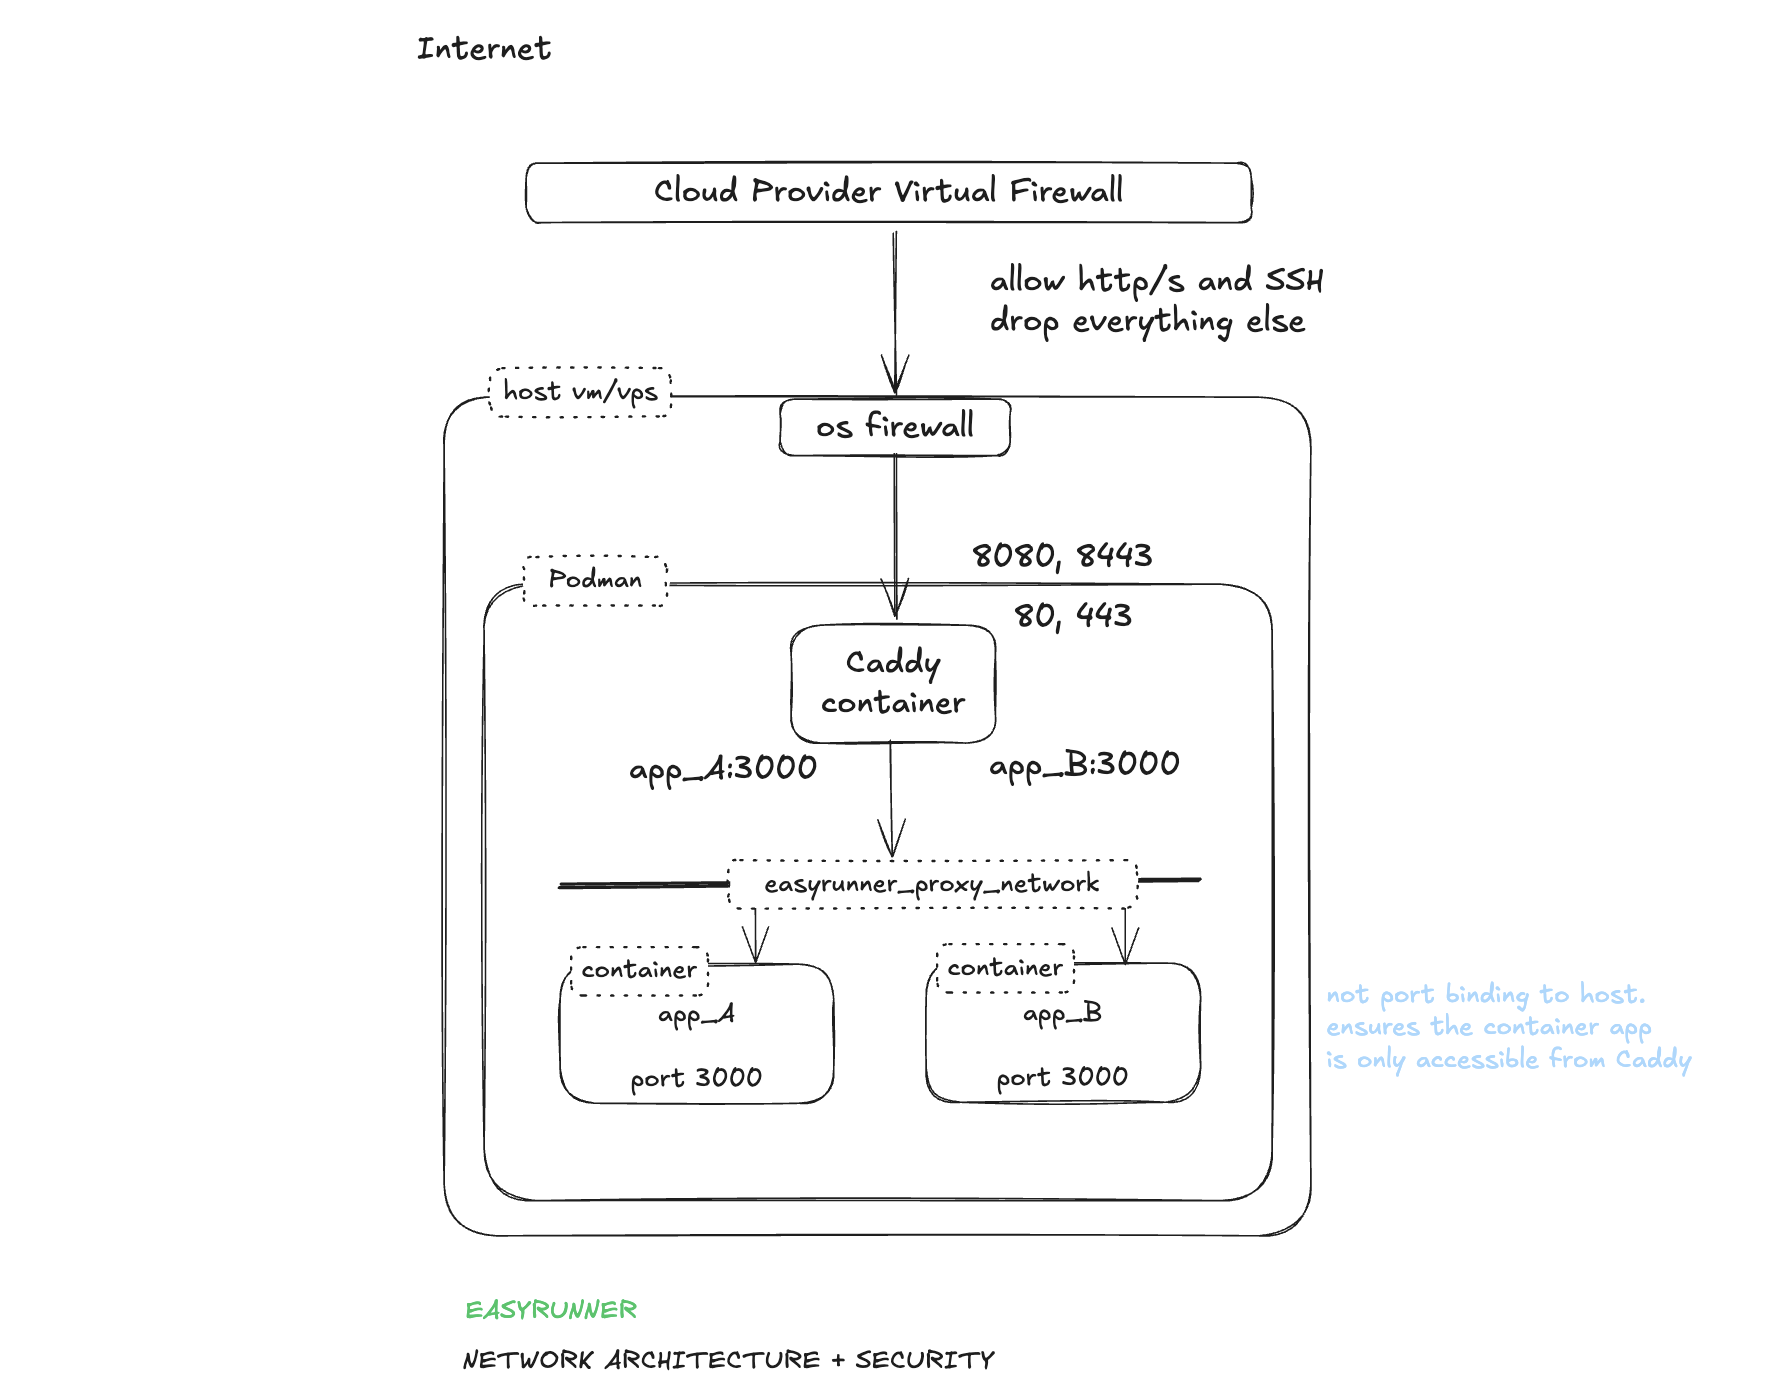
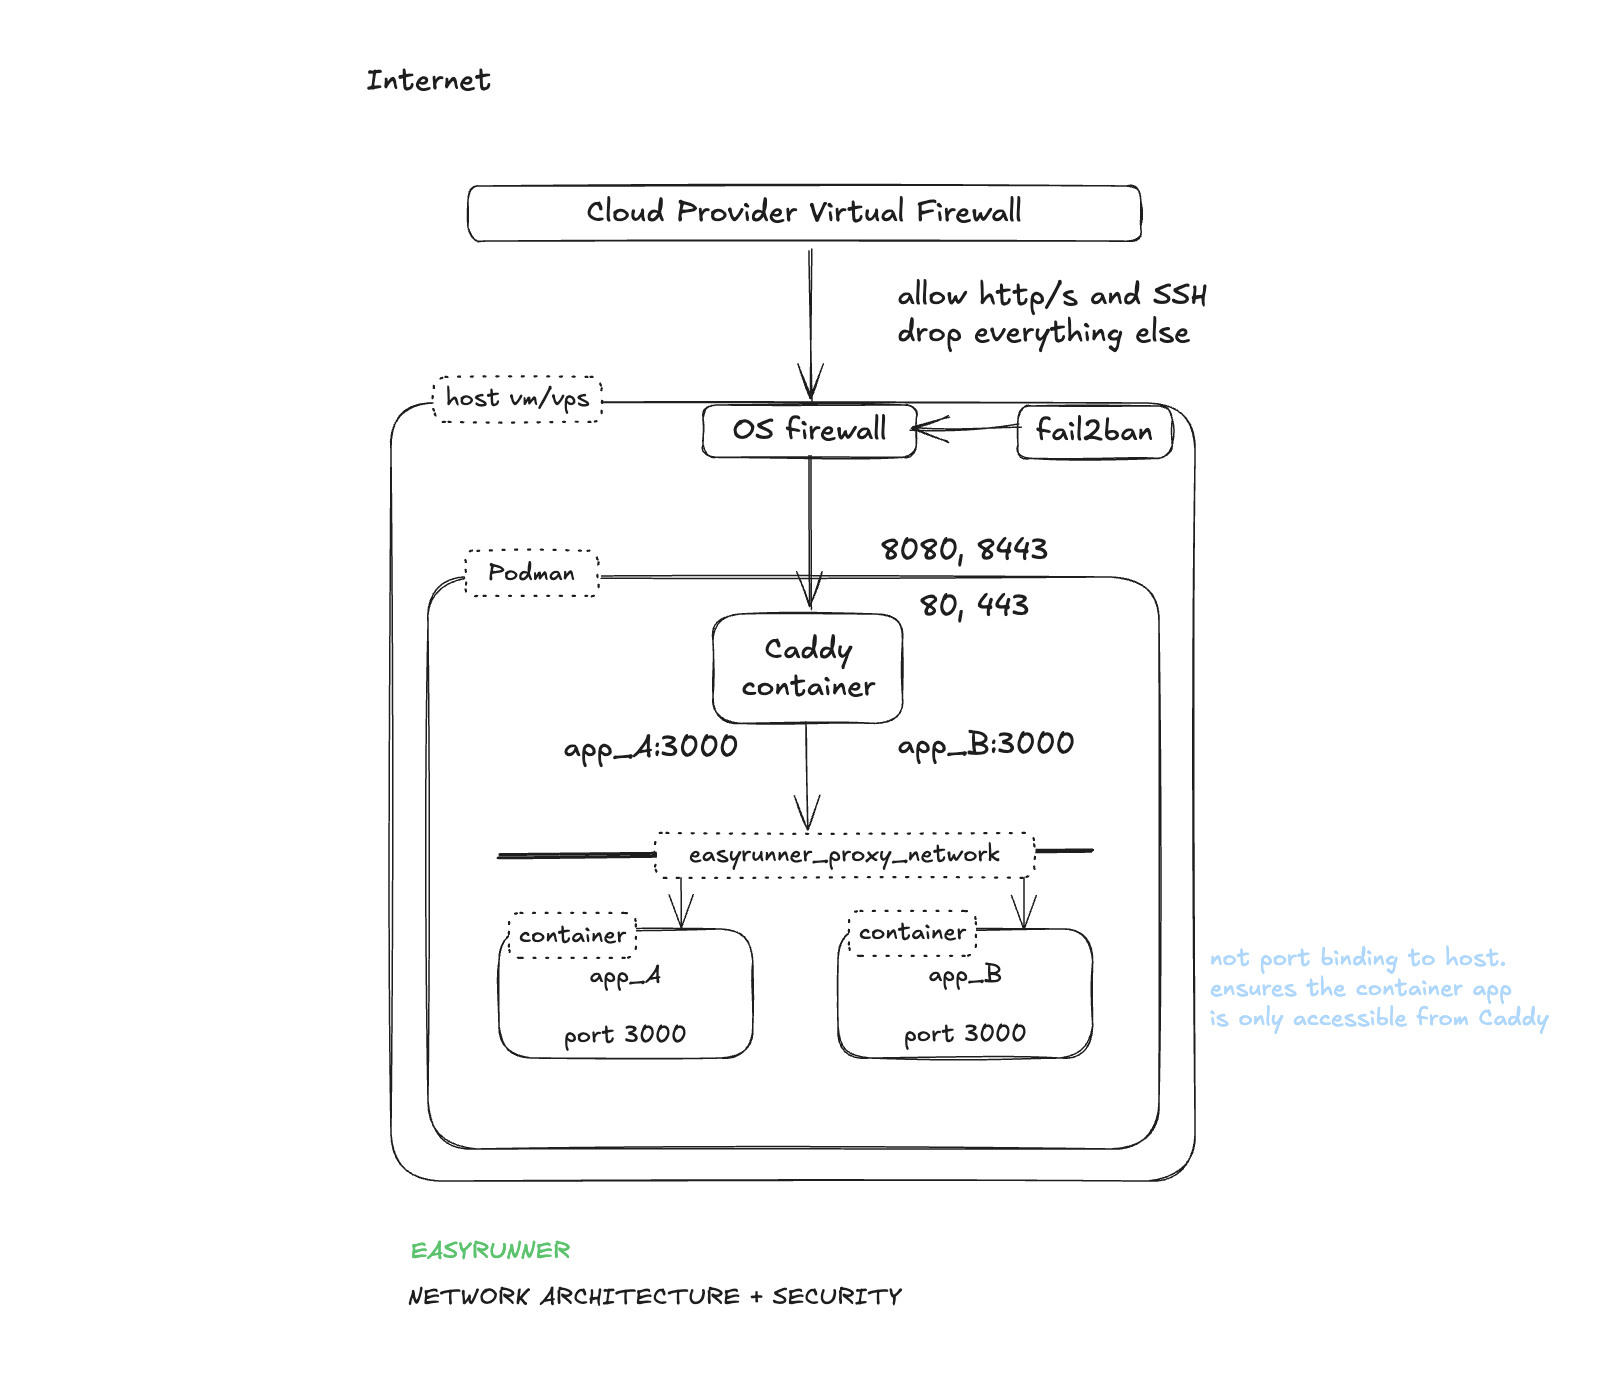
docs(blog): update security architecture blog with Intrusion Prevention section to

diff --git a/docs/blog/posts/easyrunner-secure-network-architecture.md b/docs/blog/posts/easyrunner-secure-network-architecture.md
@@ -38,6 +38,19 @@ The goal with the network setup is to reduce the surface area to a minimum. We e
 - TLS certificated are automatically setup for every application with certs issued by [Let's Encrypt](https://letsencrypt.org/).
 - Minimise information leaking that can be used by bad actors to identify vulnerable system. For example: remove X-Powered header.
 
+## Intrusion Prevention
+
+_Introduced in v0.14.b1 - Nov 2025_
+
+![EasyRunner Fail2Ban integration](er-fail2ban-status-command-output.png)
+
+- Implemented using Fail2Ban — a popular OSS intrusion prevention system (<https://github.com/fail2ban/fail2ban>) that monitors log files and bans IPs showing malicious behaviour.
+- Runs on the server with no external dependency.
+- Basic policy for SSH failed connection attempt jail. More OOTB policies will be added.
+- IPs with 5 failed SSH connection attempts within 10mins get's banned for 1hr. 3 fails within 1 day gets a 7 day ban.
+- Fail2Ban enforces bans by adding block rules to the OS Firewall.
+- Management commands integrated into EasyRunner for convenience. Custom policy management commands will be added in the future.
+
 ## App Containers
 
 - Containers in each app stack run in the context of a dedicated OS user account. One per stack.
